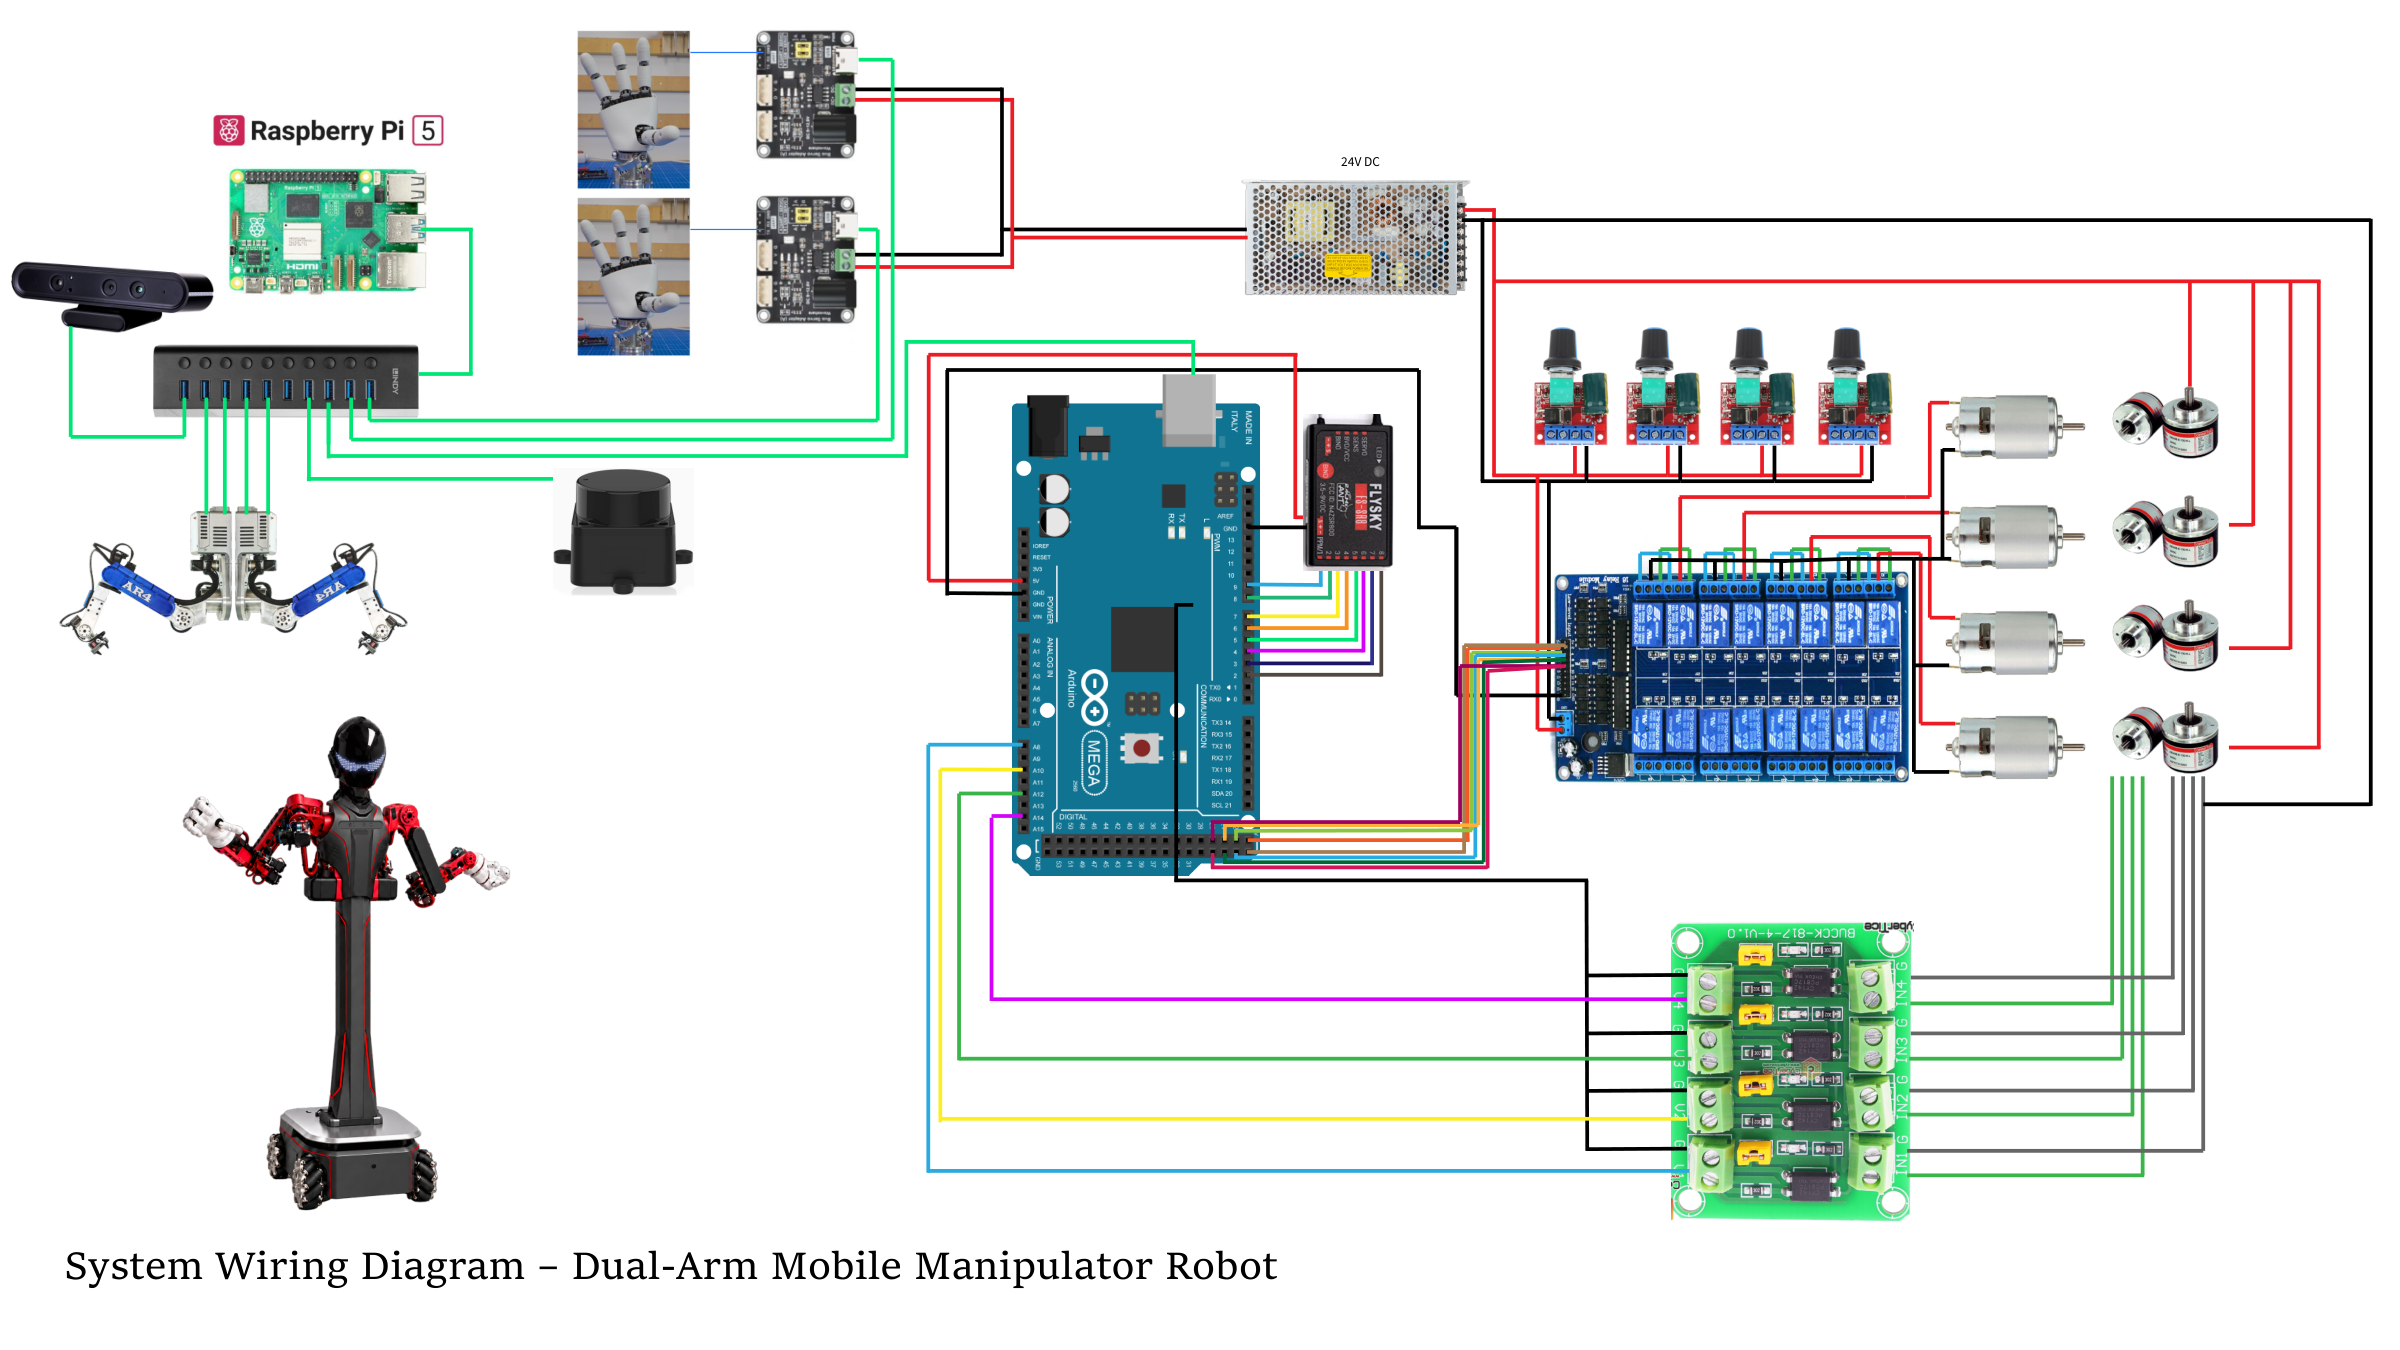
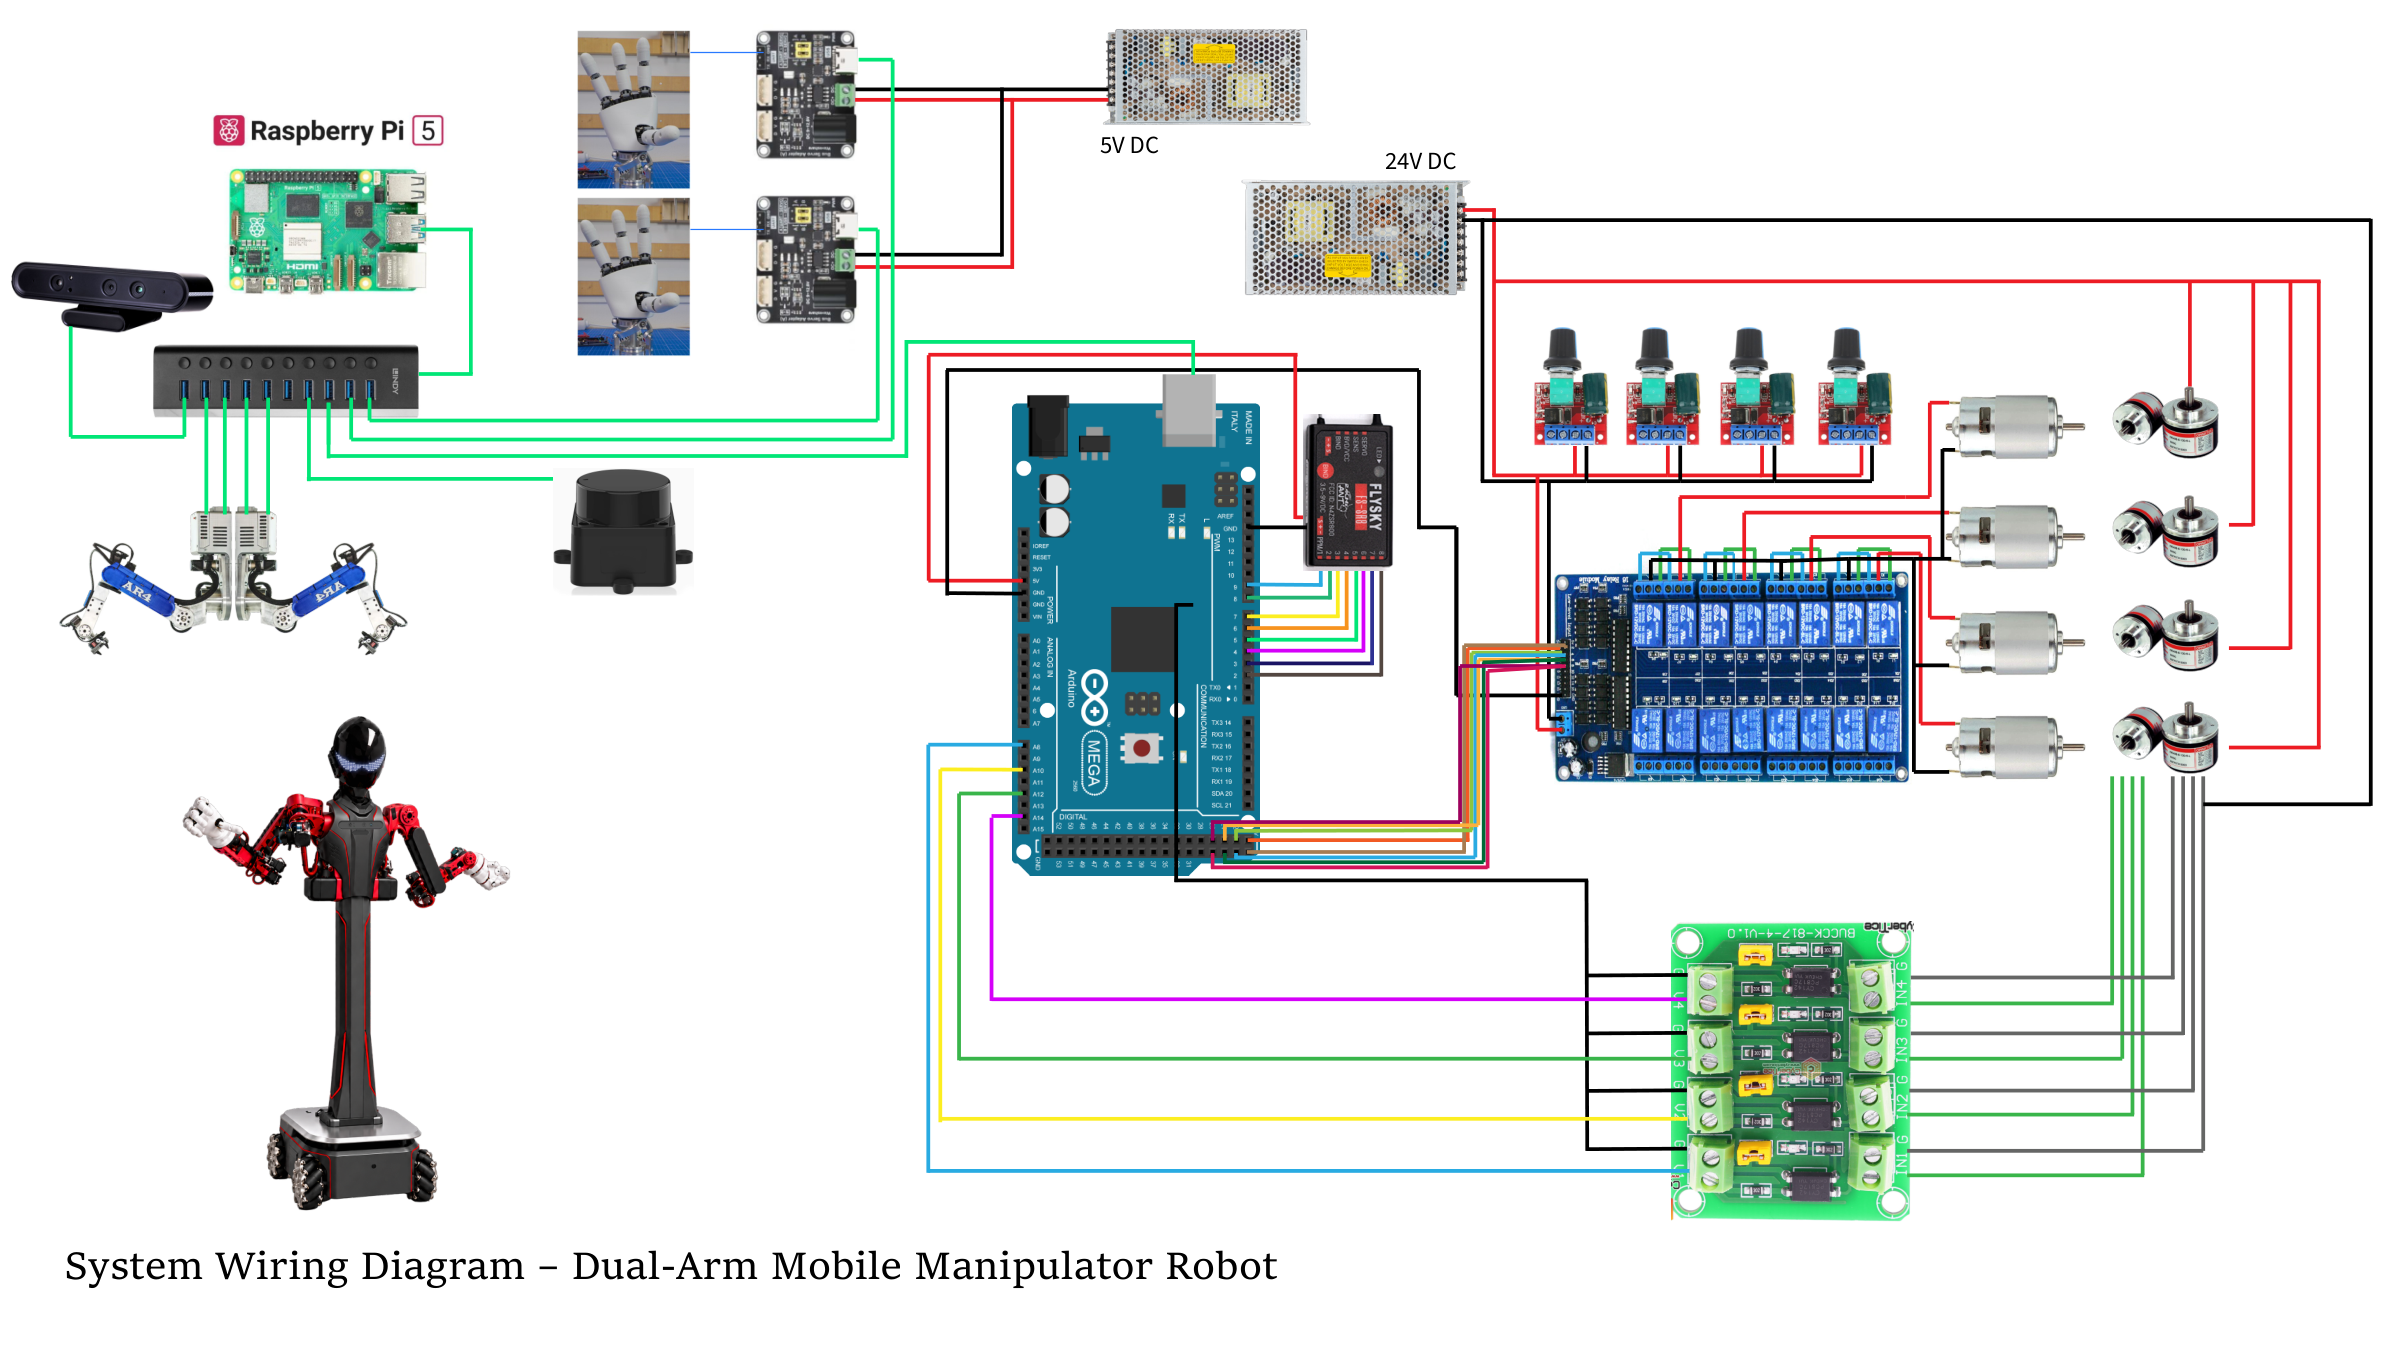
Wiring diagram: hand boards on their own 5 V supply
The user's updated diagram adds a separate 5 V DC supply for both hand
boards (previously drawn from the 24 V PSU). Manual figure 1.3 and the
README row follow; the 24 V warning and its open check are replaced by a
note that the hand runs on 5 V and the node refuses torque outside
4.8-7.4 V (7 open checks again).

Changed region(s): [[0.4062, 0.0, 0.5625, 0.0933], [0.4062, 0.1556, 0.5312, 0.1867], [0.5625, 0.0933, 0.5938, 0.1244]]

diff --git a/docs/manual/HUMANOI_MANUAL.html b/docs/manual/HUMANOI_MANUAL.html
@@ -187,11 +187,11 @@ svg.dg .lead{stroke:#9ca3af;stroke-width:.8;stroke-dasharray:3 3}
 </svg>
 <figcaption>อุปกรณ์ทั้งหมดต่อเข้า Pi ทาง USB · Mega คุมฐานและอ่านรีโมทเอง</figcaption></figure>
 
-<p>รูปถัดไปเป็นผังเดินสายของทั้งระบบ ได้แก่ สาย USB จาก Pi ผ่าน USB hub ไปยังแขน มือ กล้อง lidar และ Mega แหล่งจ่าย 24 V และสายสัญญาณของ Mega ไปยังตัวรับรีโมท บอร์ด relay ตัวปรับความเร็ว มอเตอร์ และบอร์ดอ่าน encoder ถ้าต้องซูมดูขาต่อ เปิดไฟล์ขนาดเต็ม <code>docs/SYSTEM_WIRING.pdf</code> ใน repo</p>
+<p>รูปถัดไปเป็นผังเดินสายของทั้งระบบ ได้แก่ สาย USB จาก Pi ผ่าน USB hub ไปยังแขน มือ กล้อง lidar และ Mega แหล่งจ่าย 5 V ของบอร์ดมือ แหล่งจ่าย 24 V ของฐาน และสายสัญญาณของ Mega ไปยังตัวรับรีโมท บอร์ด relay ตัวปรับความเร็ว มอเตอร์ และบอร์ดอ่าน encoder ถ้าต้องซูมดูขาต่อ เปิดไฟล์ขนาดเต็ม <code>docs/SYSTEM_WIRING.pdf</code> ใน repo</p>
 
 <figure class="ph" data-kind="diagram"><img src="img/system-wiring.png" alt=""><figcaption>ผังเดินสายทั้งระบบ</figcaption><div class="ph-note">ส่งออกจาก docs/SYSTEM_WIRING.pdf (วาดใน VectorCraft) · แก้ผังแล้วส่งออกใหม่ทับชื่อเดิม</div></figure>
 
-<div class="warn"><b>ระวัง</b> ในผัง สายไฟของบอร์ดมือลากมาจากแหล่งจ่าย 24 V แต่ servo มือห้ามรับไฟเกิน 7.4 V ห้ามต่อ 24 V เข้าบอร์ดมือตรงๆ ต้องผ่านตัวลดแรงดันก่อน และเช็กด้วย <code>arm hand-scan</code> ทุกครั้งที่ต่อไฟใหม่ <span class="todo">ต้องเช็ก: บนหุ่นจริง บอร์ดมือรับไฟผ่านตัวลดแรงดันตัวไหน (เอกสาร POWER_SYSTEM วางแผนไว้เป็น DC-DC 6 V รุ่น XL4016) แล้ววาดเพิ่มลงในผัง</span></div>
+<div class="warn"><b>ระวัง</b> บอร์ดมือสองตัวรับไฟจากแหล่งจ่าย 5 V ของมันเอง แยกจากแหล่งจ่าย 24 V ของฐาน ห้ามสลับสายหรือต่อ 24 V เข้าบอร์ดมือ เพราะ servo มือรับได้ 4.8–7.4 V ตัวคุมมือจะไม่เปิดแรงบิดถ้าไฟ servo ตัวใดอยู่นอกช่วงนี้ เช็กด้วย <code>arm hand-scan</code> ทุกครั้งที่ต่อไฟใหม่</div>
 
 <h2>โปรแกรมทำงานอยู่ที่ไหน</h2>
 <p>งานจริงทั้งหมดรันบน Pi ใน container ชื่อ <code>humanoi_ros</code> ส่วน PC ใช้เขียนโค้ด รันซิม (Gazebo) และดูภาพ/แผนที่ผ่าน

diff --git a/docs/manual/src/part_main_a.html b/docs/manual/src/part_main_a.html
@@ -47,11 +47,11 @@
 </svg>
 <figcaption>อุปกรณ์ทั้งหมดต่อเข้า Pi ทาง USB · Mega คุมฐานและอ่านรีโมทเอง</figcaption></figure>
 
-<p>รูปถัดไปเป็นผังเดินสายของทั้งระบบ ได้แก่ สาย USB จาก Pi ผ่าน USB hub ไปยังแขน มือ กล้อง lidar และ Mega แหล่งจ่าย 24 V และสายสัญญาณของ Mega ไปยังตัวรับรีโมท บอร์ด relay ตัวปรับความเร็ว มอเตอร์ และบอร์ดอ่าน encoder ถ้าต้องซูมดูขาต่อ เปิดไฟล์ขนาดเต็ม <code>docs/SYSTEM_WIRING.pdf</code> ใน repo</p>
+<p>รูปถัดไปเป็นผังเดินสายของทั้งระบบ ได้แก่ สาย USB จาก Pi ผ่าน USB hub ไปยังแขน มือ กล้อง lidar และ Mega แหล่งจ่าย 5 V ของบอร์ดมือ แหล่งจ่าย 24 V ของฐาน และสายสัญญาณของ Mega ไปยังตัวรับรีโมท บอร์ด relay ตัวปรับความเร็ว มอเตอร์ และบอร์ดอ่าน encoder ถ้าต้องซูมดูขาต่อ เปิดไฟล์ขนาดเต็ม <code>docs/SYSTEM_WIRING.pdf</code> ใน repo</p>
 
 <figure class="ph" data-kind="diagram"><img src="img/system-wiring.png" alt=""><figcaption>ผังเดินสายทั้งระบบ</figcaption><div class="ph-note">ส่งออกจาก docs/SYSTEM_WIRING.pdf (วาดใน VectorCraft) · แก้ผังแล้วส่งออกใหม่ทับชื่อเดิม</div></figure>
 
-<div class="warn"><b>ระวัง</b> ในผัง สายไฟของบอร์ดมือลากมาจากแหล่งจ่าย 24 V แต่ servo มือห้ามรับไฟเกิน 7.4 V ห้ามต่อ 24 V เข้าบอร์ดมือตรงๆ ต้องผ่านตัวลดแรงดันก่อน และเช็กด้วย <code>arm hand-scan</code> ทุกครั้งที่ต่อไฟใหม่ <span class="todo">ต้องเช็ก: บนหุ่นจริง บอร์ดมือรับไฟผ่านตัวลดแรงดันตัวไหน (เอกสาร POWER_SYSTEM วางแผนไว้เป็น DC-DC 6 V รุ่น XL4016) แล้ววาดเพิ่มลงในผัง</span></div>
+<div class="warn"><b>ระวัง</b> บอร์ดมือสองตัวรับไฟจากแหล่งจ่าย 5 V ของมันเอง แยกจากแหล่งจ่าย 24 V ของฐาน ห้ามสลับสายหรือต่อ 24 V เข้าบอร์ดมือ เพราะ servo มือรับได้ 4.8–7.4 V ตัวคุมมือจะไม่เปิดแรงบิดถ้าไฟ servo ตัวใดอยู่นอกช่วงนี้ เช็กด้วย <code>arm hand-scan</code> ทุกครั้งที่ต่อไฟใหม่</div>
 
 <h2>โปรแกรมทำงานอยู่ที่ไหน</h2>
 <p>งานจริงทั้งหมดรันบน Pi ใน container ชื่อ <code>humanoi_ros</code> ส่วน PC ใช้เขียนโค้ด รันซิม (Gazebo) และดูภาพ/แผนที่ผ่าน
